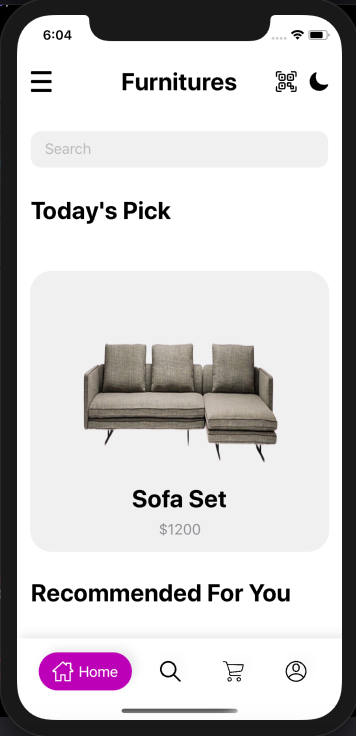
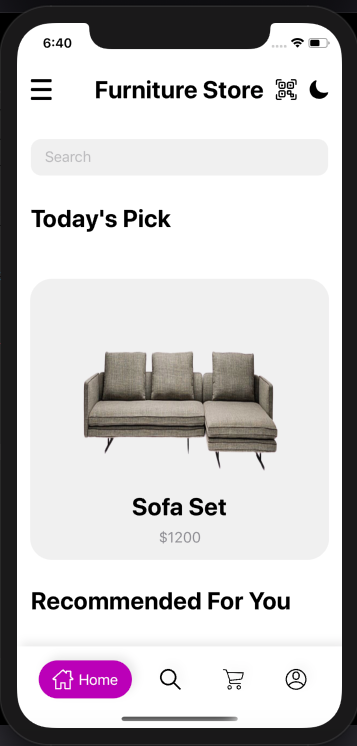
Minor

diff --git a/FurnitureStore/ContentView.swift b/FurnitureStore/ContentView.swift
@@ -258,7 +258,7 @@ struct Home : View {
                     }
                 }
                 
-                Text("Furnitures")
+                Text("Furniture Store")
                     .font(.title)
                     .fontWeight(.bold)
             }
